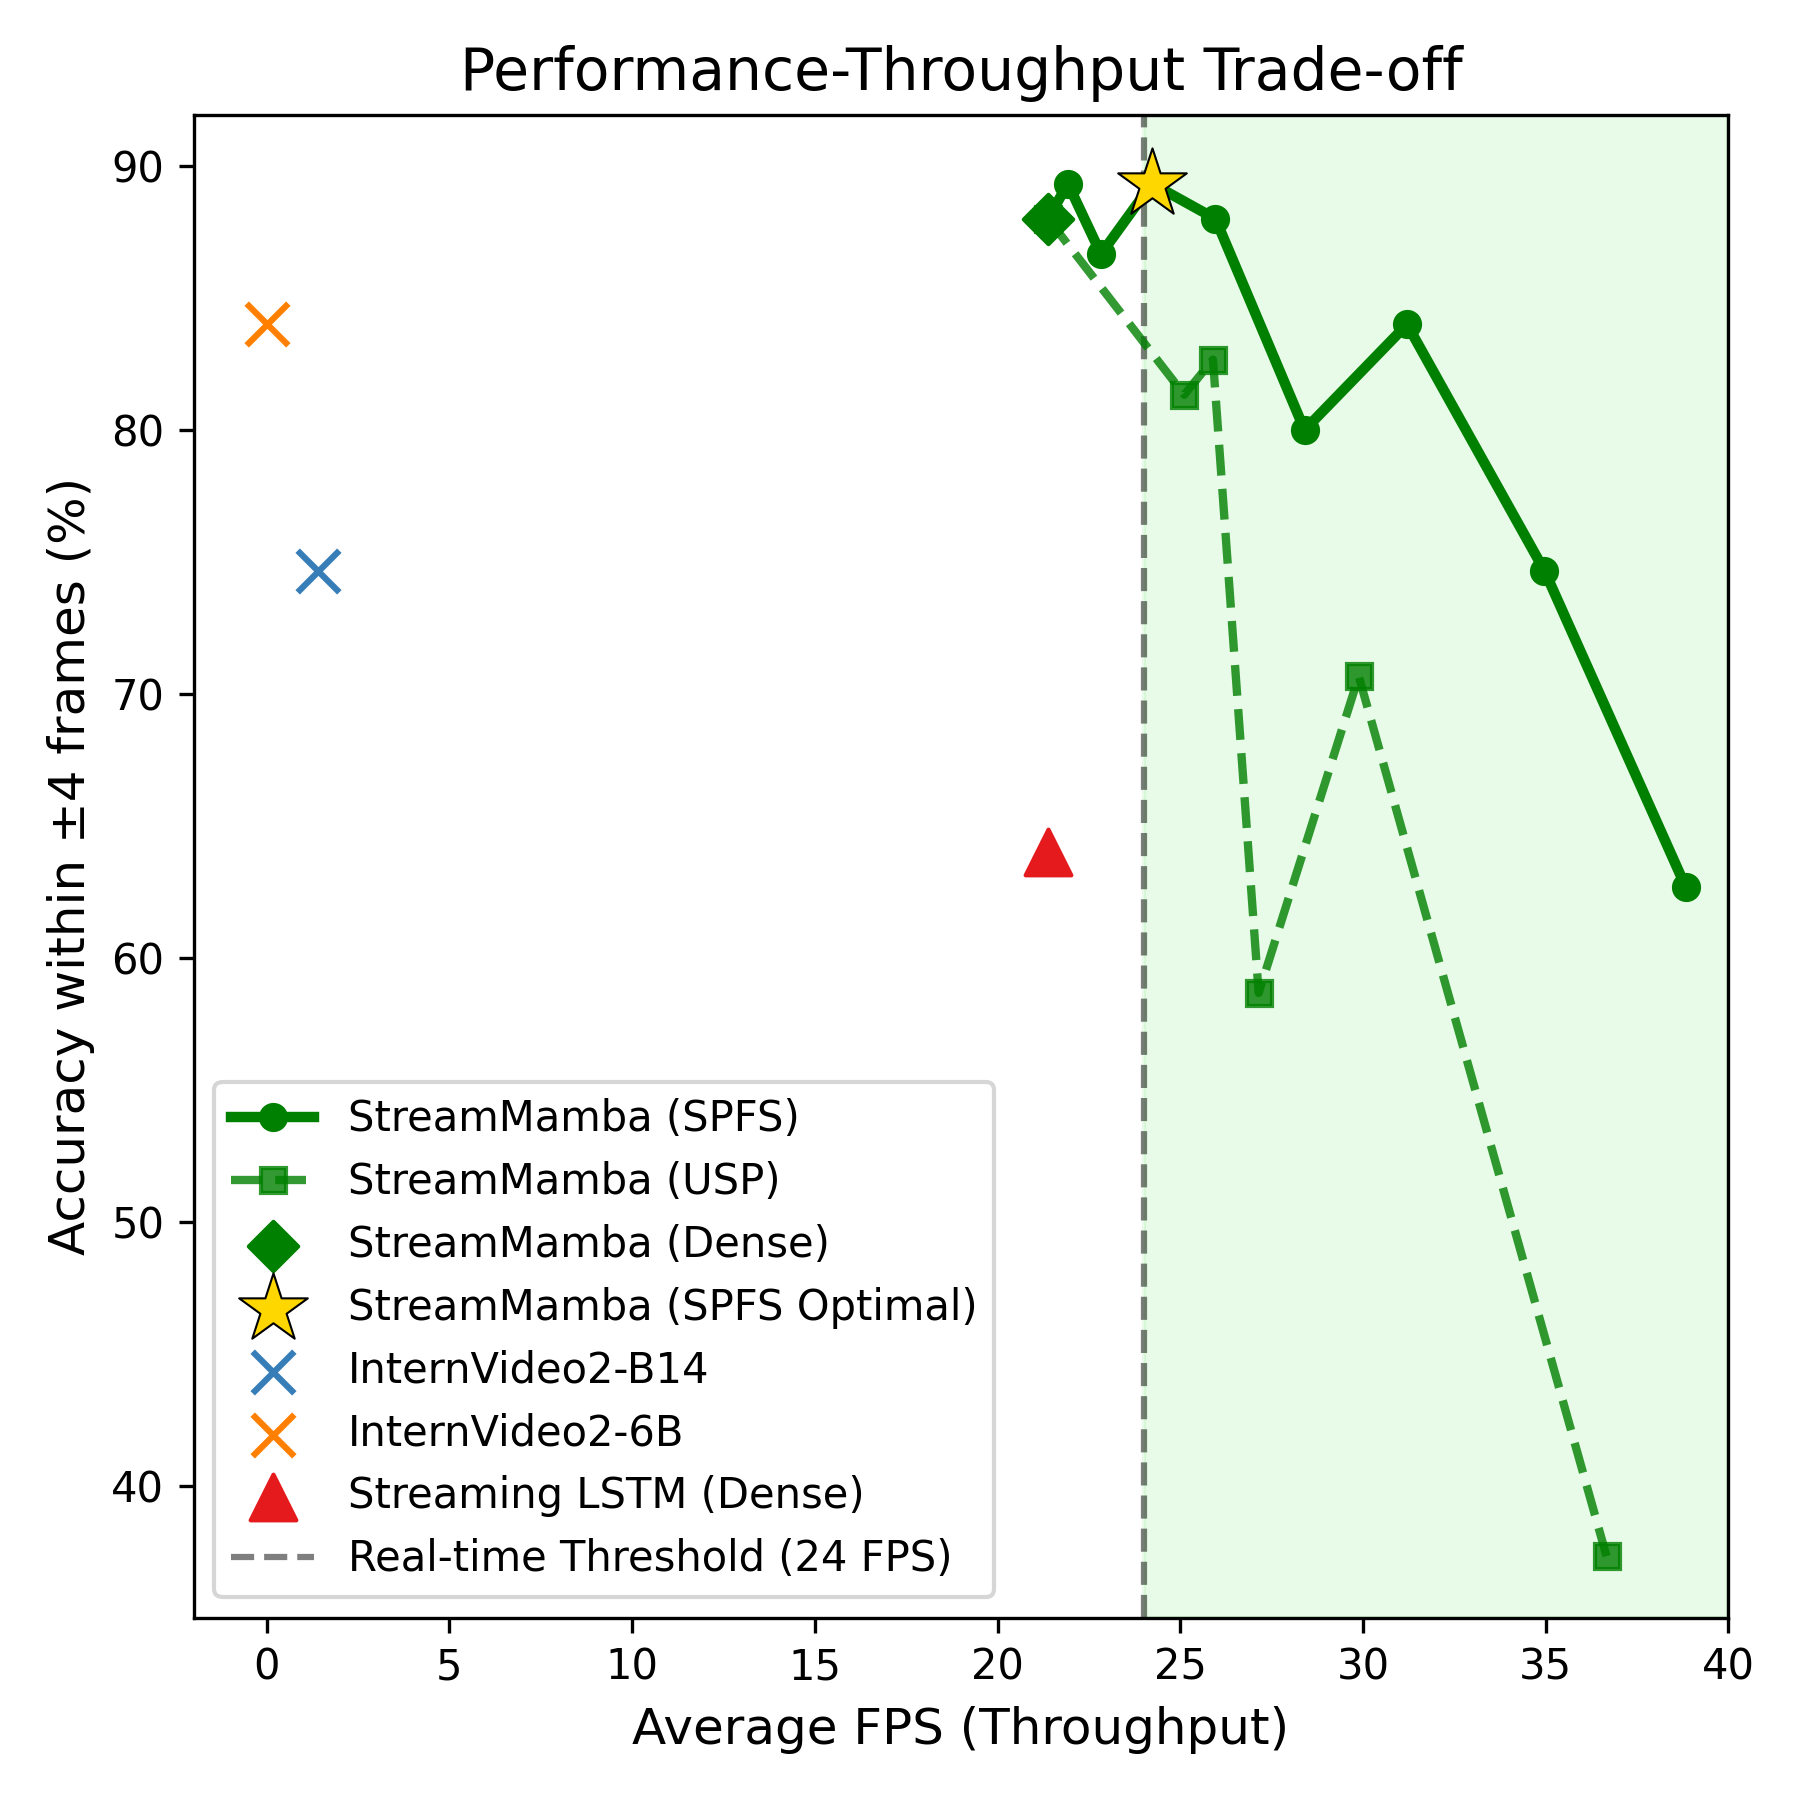
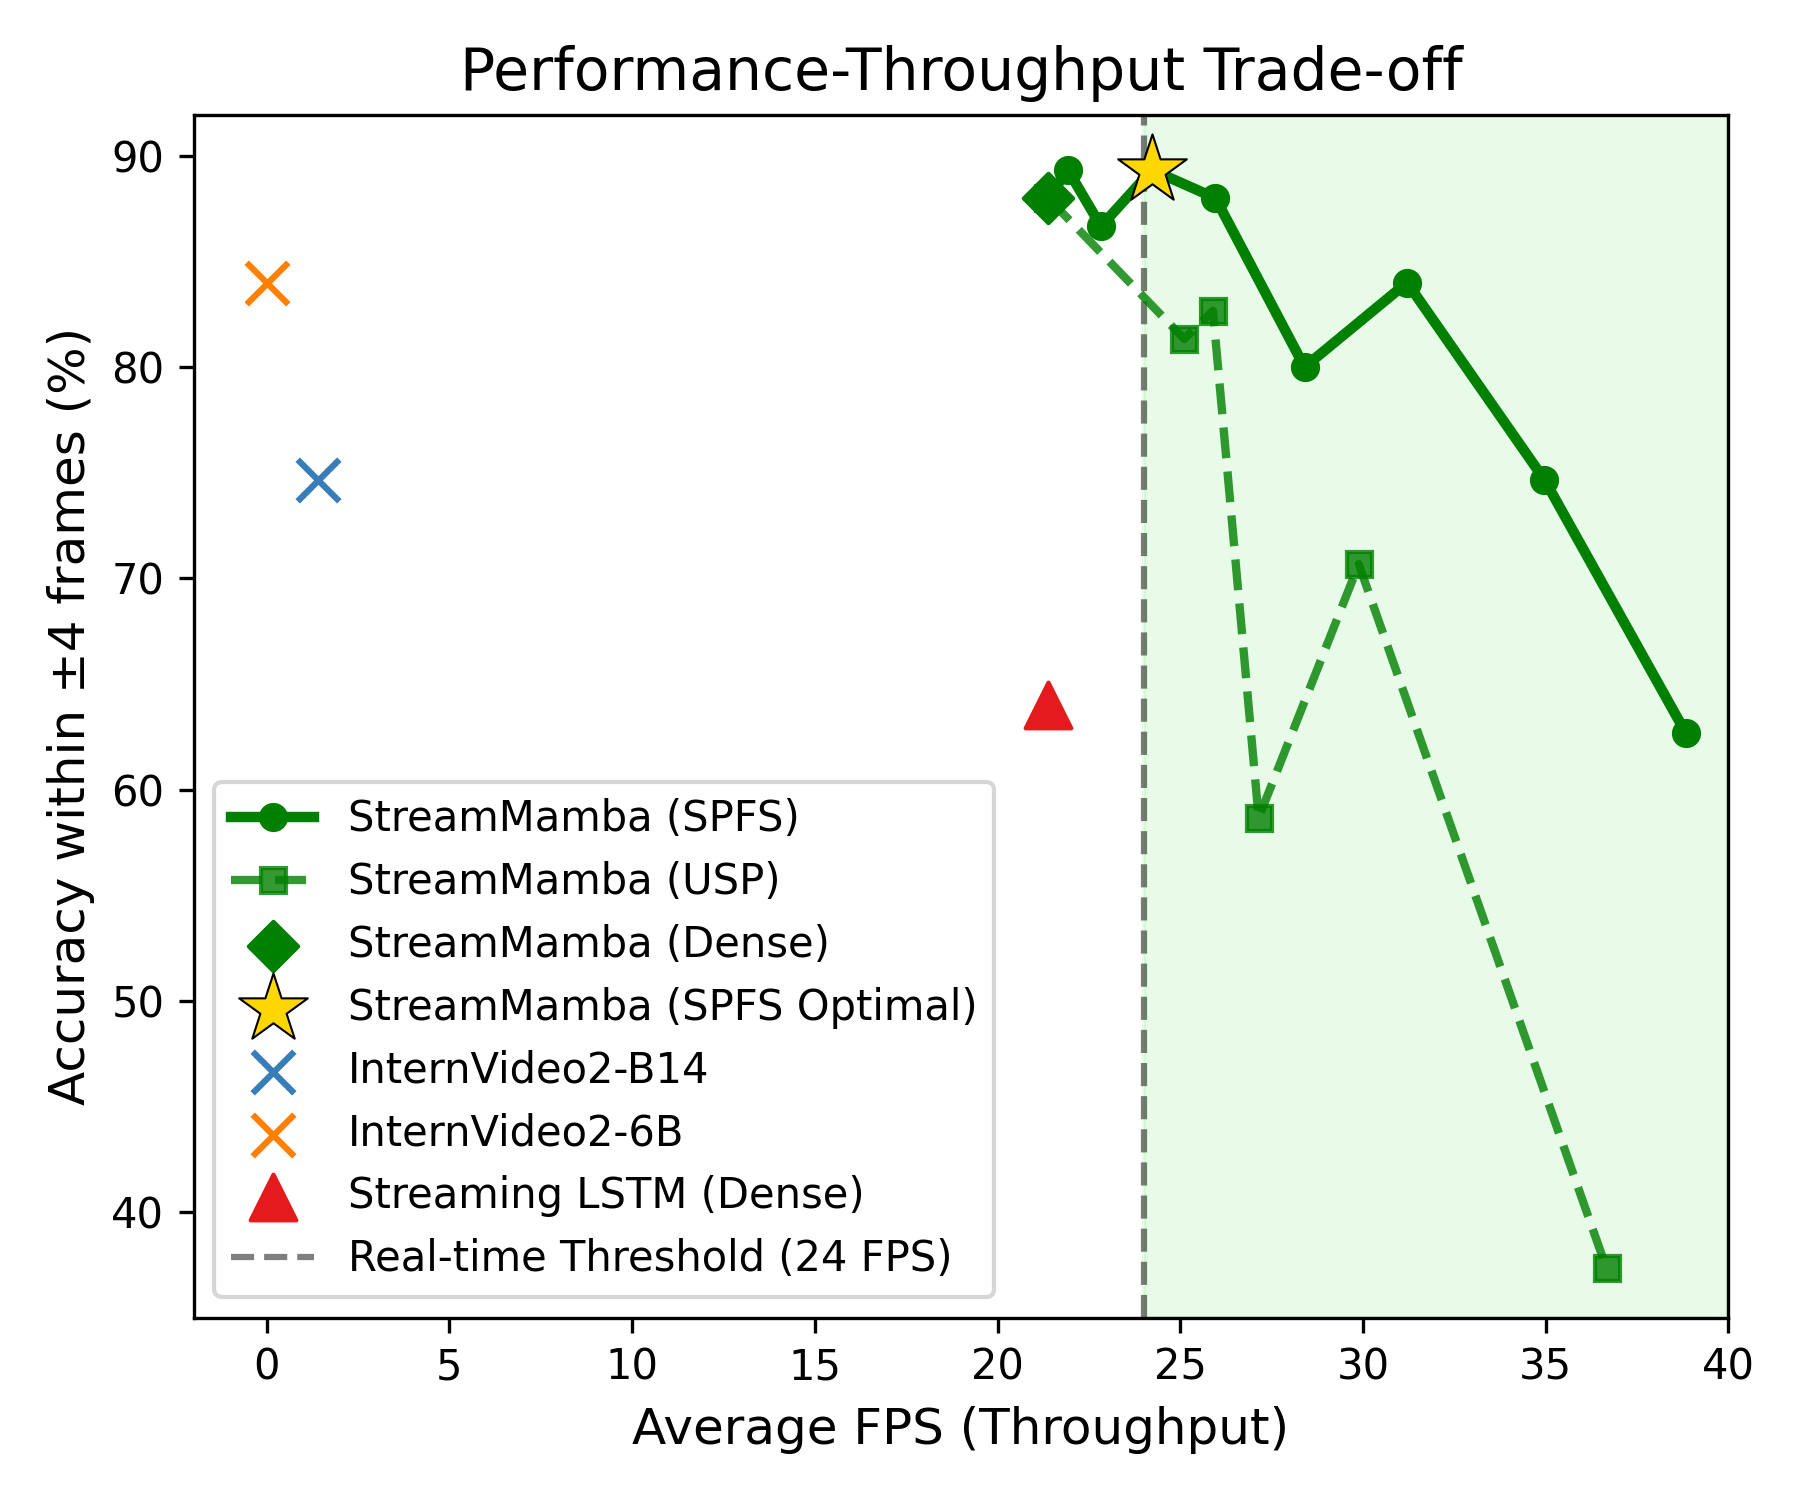
graph updates

diff --git a/src/scripts/benchmark/plot_fps_accuracy.py b/src/scripts/benchmark/plot_fps_accuracy.py
@@ -136,7 +136,7 @@ def load_all_data(results_root):
     return spfs_data, usp_data
 
 def generate_plot(spfs_data, usp_data, results_root):
-    plt.figure(figsize=(6, 6))
+    plt.figure(figsize=(6, 5))
 
     if spfs_data:
         spfs_style = STYLES['streambm_spfs']
